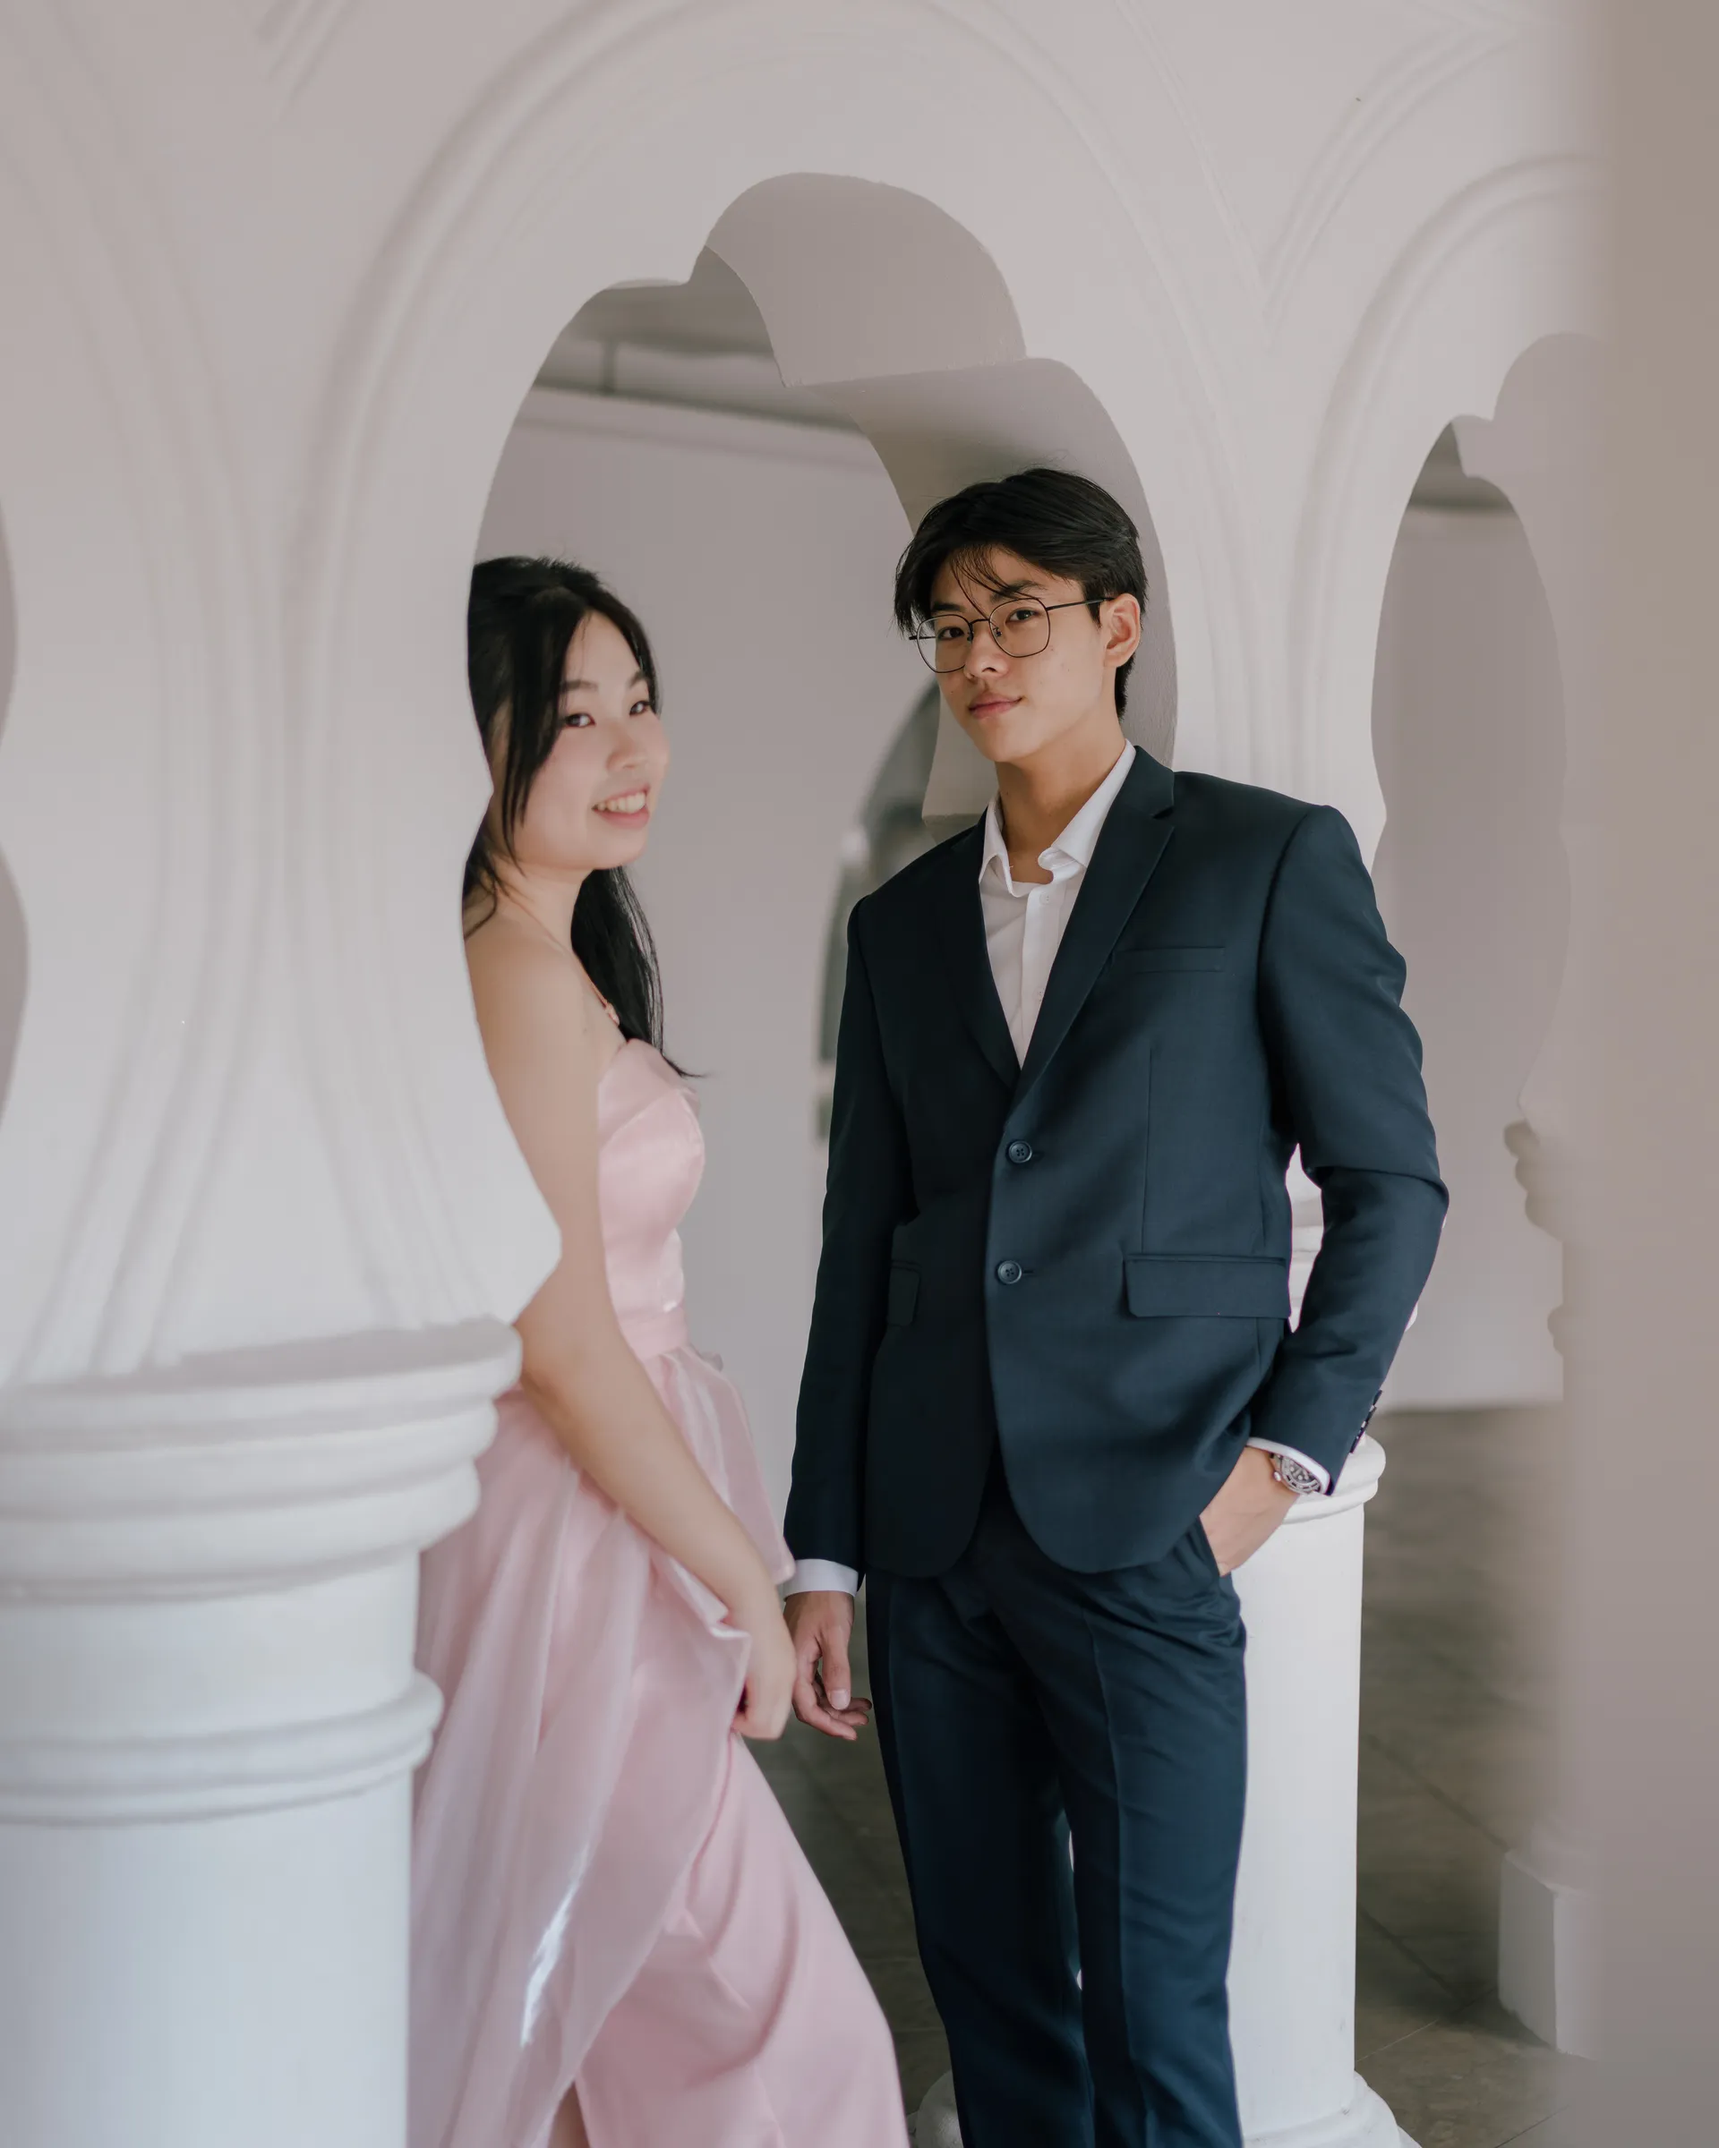
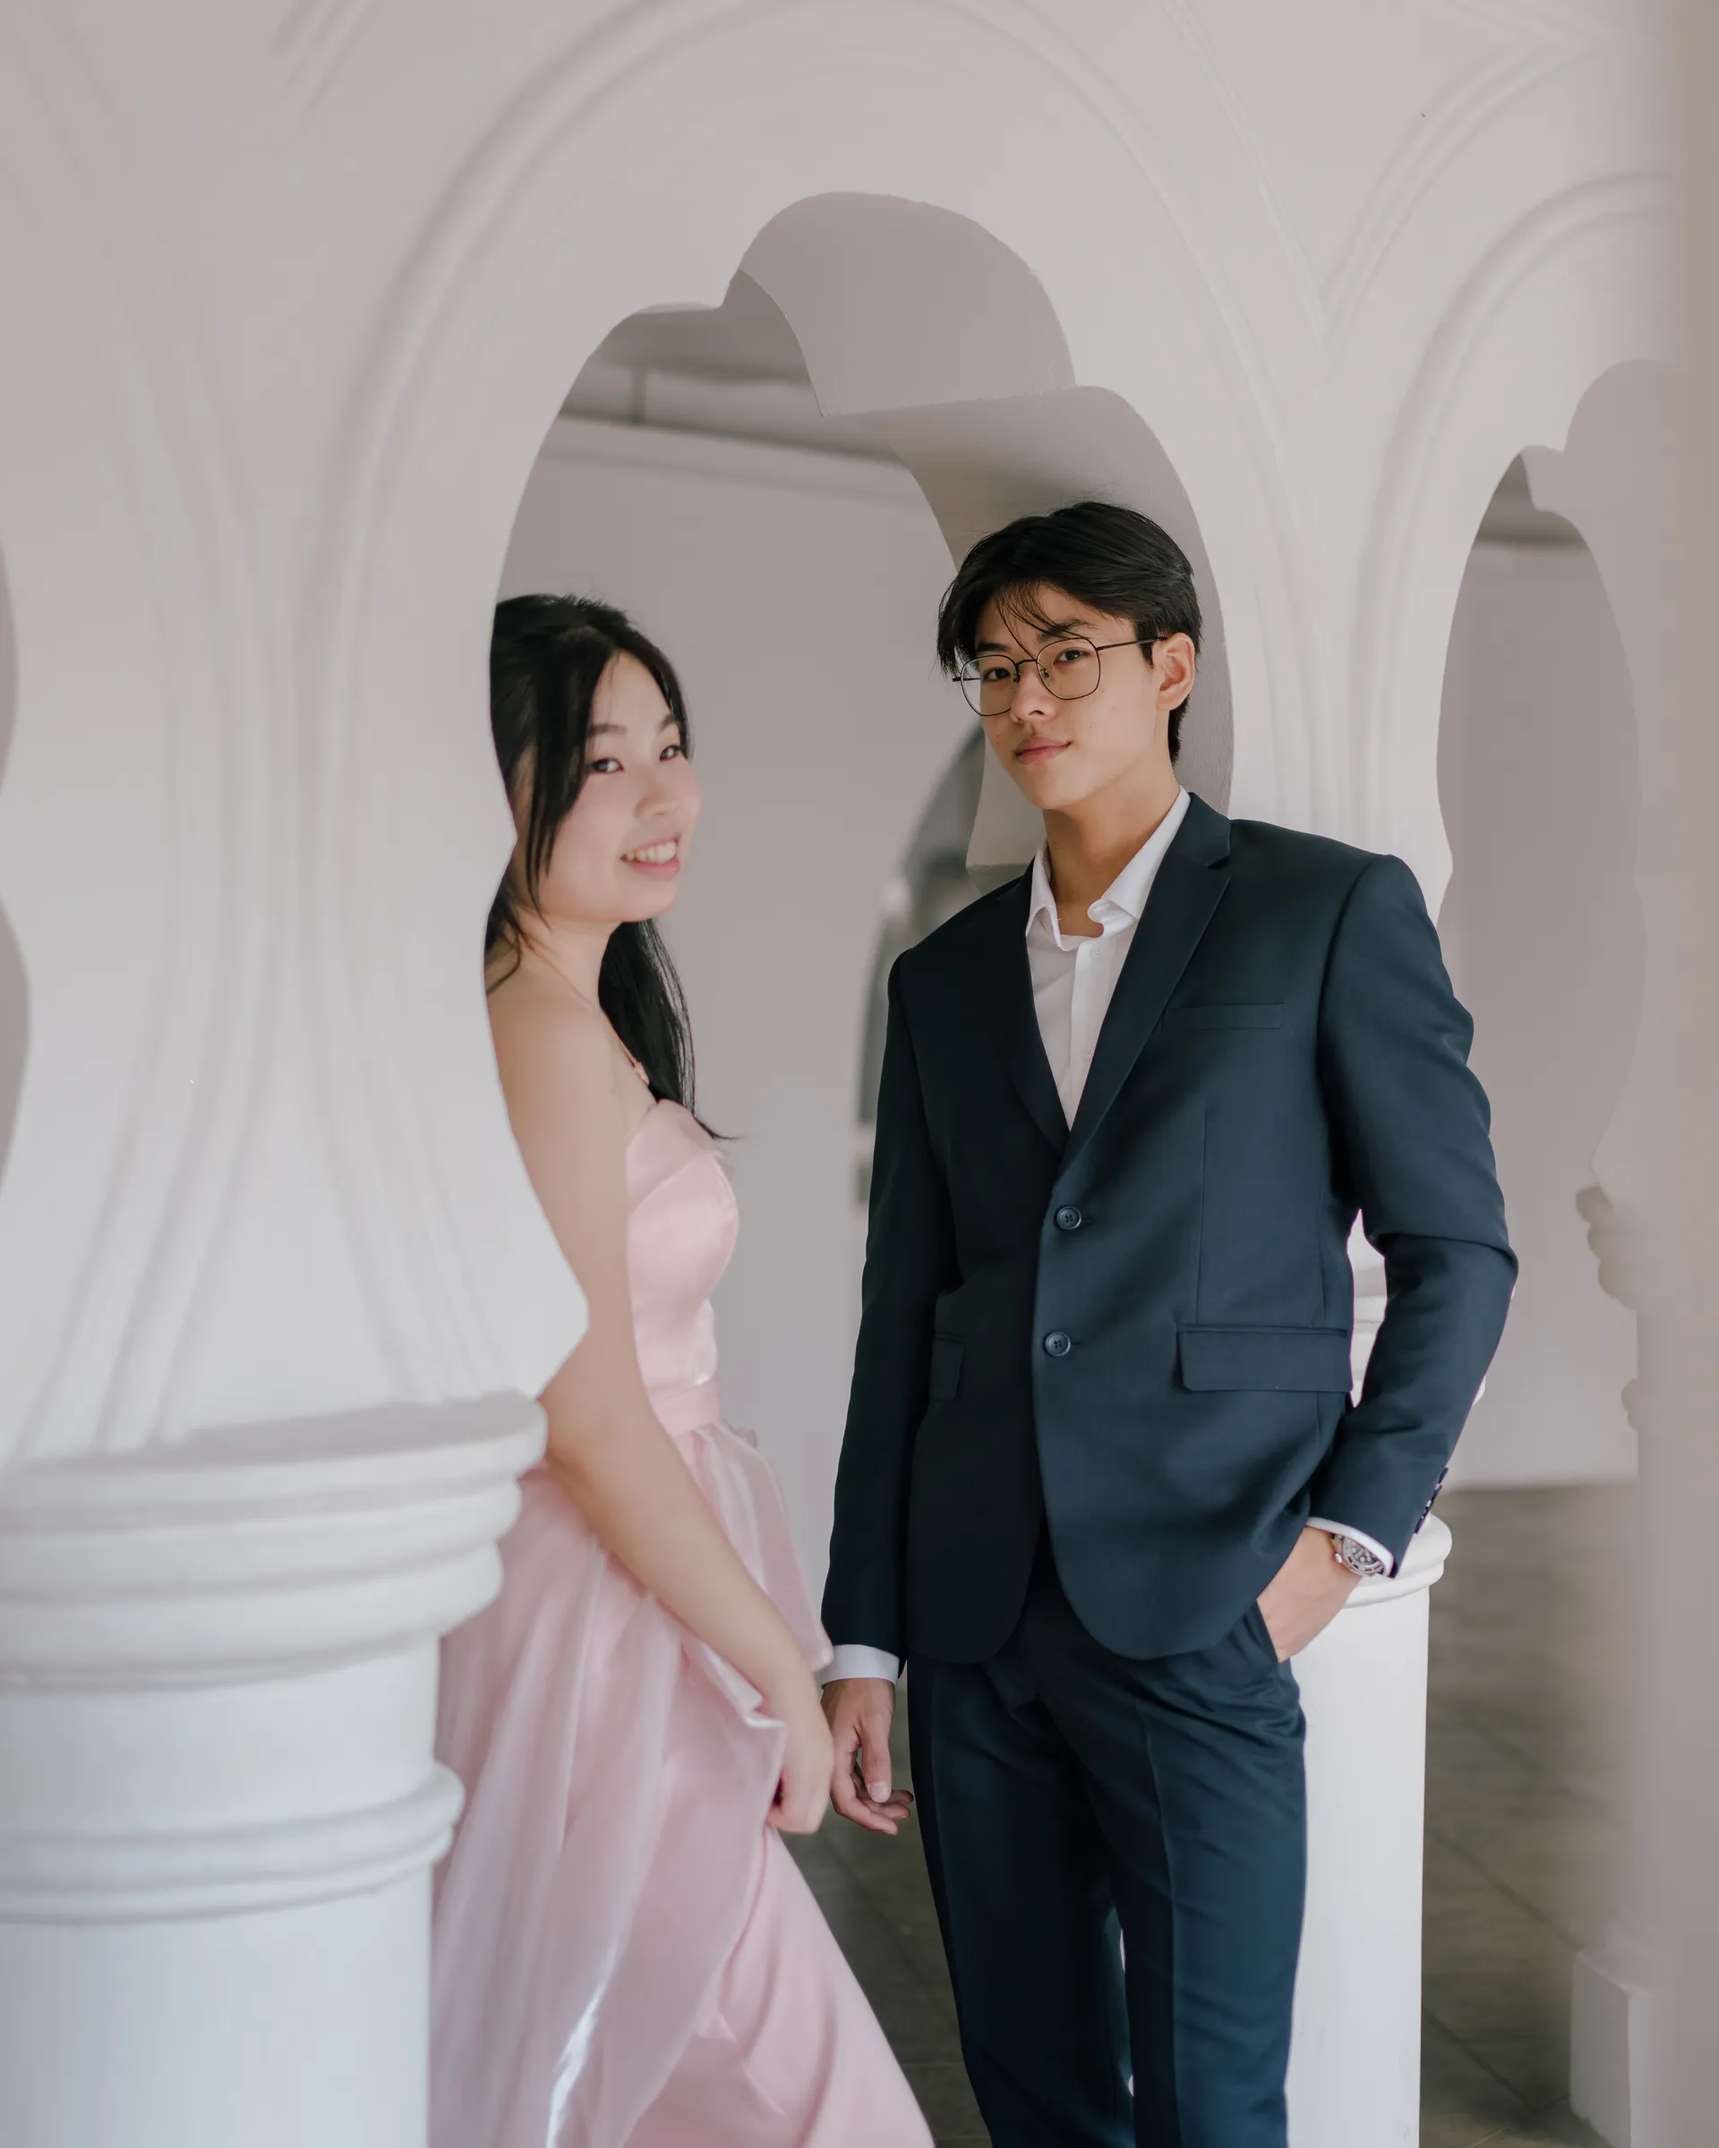
Re-encode the replaced hero photo; drop deleted weddings frame
The new master kept the same filename, so the pipeline picked it up on
mtime and re-encoded only that one. It's 1920x2400 — the same 4:5 ratio as
before, so the hero crop, fade and scrim all still land where they should:
frame at 36%, fade resolving at 59%.

Also removed weddings/John-00317, deleted alongside it.

86 photographs, disk and content.ts agree in every folder, 0 broken refs.

diff --git a/lib/generated-images.ts b/lib/generated-images.ts
@@ -488,7 +488,7 @@ export const images: Record<string, GeneratedImage> = {
       1440,
       1920
     ],
[2 lines of base64/hex data omitted]
   },
   "/work/proposals/John-00218.jpg": {
     "src": "/work/proposals/John-00218.jpg",
@@ -753,18 +753,6 @@ export const images: Record<string, GeneratedImage> = {
       1920
     ],
[1 lines of base64/hex data omitted]
-  },
-  "/work/weddings/John-00317.jpg": {
-    "src": "/work/weddings/John-00317.jpg",
-    "width": 1920,
-    "height": 2880,
-    "widths": [
-      480,
-      960,
-      1440,
-      1920
-    ],
[1 lines of base64/hex data omitted]
   },
   "/work/weddings/John-00456.jpg": {
     "src": "/work/weddings/John-00456.jpg",

diff --git a/lib/content.ts b/lib/content.ts
@@ -362,12 +362,6 @@ export const collections: Collection[] = [
         src: "/work/weddings/John-09199.jpg",
       },
       {
-        id: "john-00317",
-        category: "Weddings",
-        ratio: "portrait",
-        src: "/work/weddings/John-00317.jpg",
-      },
-      {
         id: "john-09345",
         category: "Weddings",
         ratio: "portrait",
